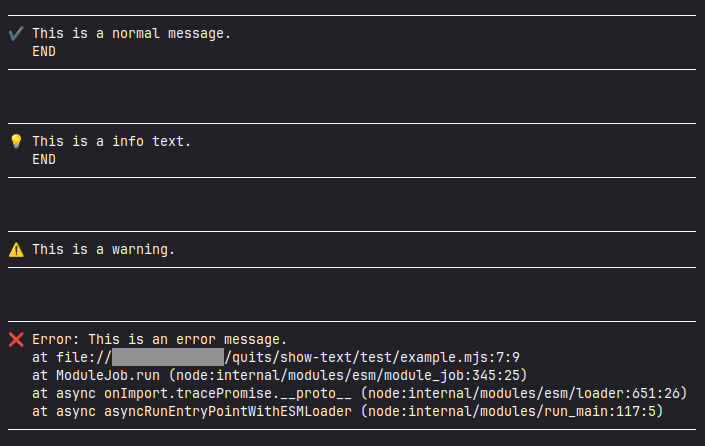
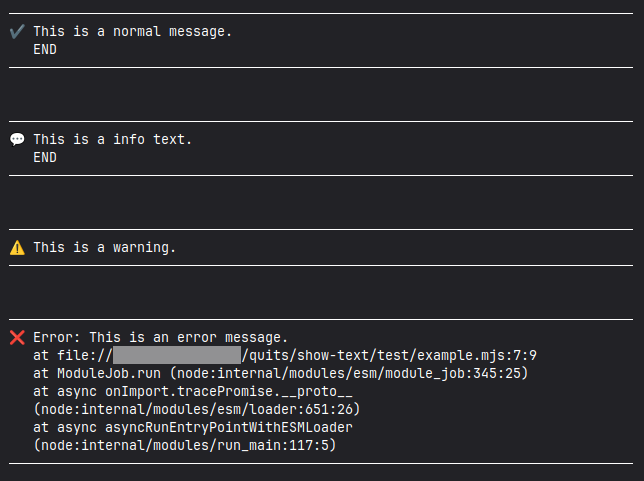
docs: Update Readme
Use the new icon for showInfoText

diff --git a/README.md b/README.md
@@ -2,7 +2,9 @@
 
 Displays multiline text in the console, with icon and word wrap.
 
-Make your messages more visible and offer a less crude alternative to a simple "throw"...
+[![CI][ci-badge]][ci-url]
+
+Make your messages more visible and offer a less crude alternative to a simple "throw".
 
 ## Requirements
 
@@ -27,13 +29,13 @@ There are 4 functions, all of which accept one or more blocks of text:
 | Function        | Icon | Use             |
 | --------------- | :--: | --------------- |
 | `showText`      |  ✔  | `console.log`   |
-| `showInfoText`  |  💡  | `console.info`  |
+| `showInfoText`  | 💬  | `console.info`  |
 | `showWarnText`  |  ⚠  | `console.warn`  |
 | `showErrorText` |  ❌  | `console.error` |
 
 ## Example
 
-This example shows basic usage in an 88-column console...
+This example shows basic usage in an 80-column console...
 
 ```js
 import { showErrorText, showInfoText, showText, showWarnText } from '@quitsmx/show-text'
@@ -51,8 +53,11 @@ try {
 
 Output:
 
-![Sample output in 88 columns](image.png)
+![Sample output in 80 columns](image.png)
 
 ## License
 
 The [MIT License](LICENSE) © 2025-Present by QuITS
+
+[ci-badge]: https://github.com/quitsmx/action-test-1/actions/workflows/node.js.yml/badge.svg
+[ci-url]: https://github.com/quitsmx/action-test-1/actions/workflows/node.js.yml
